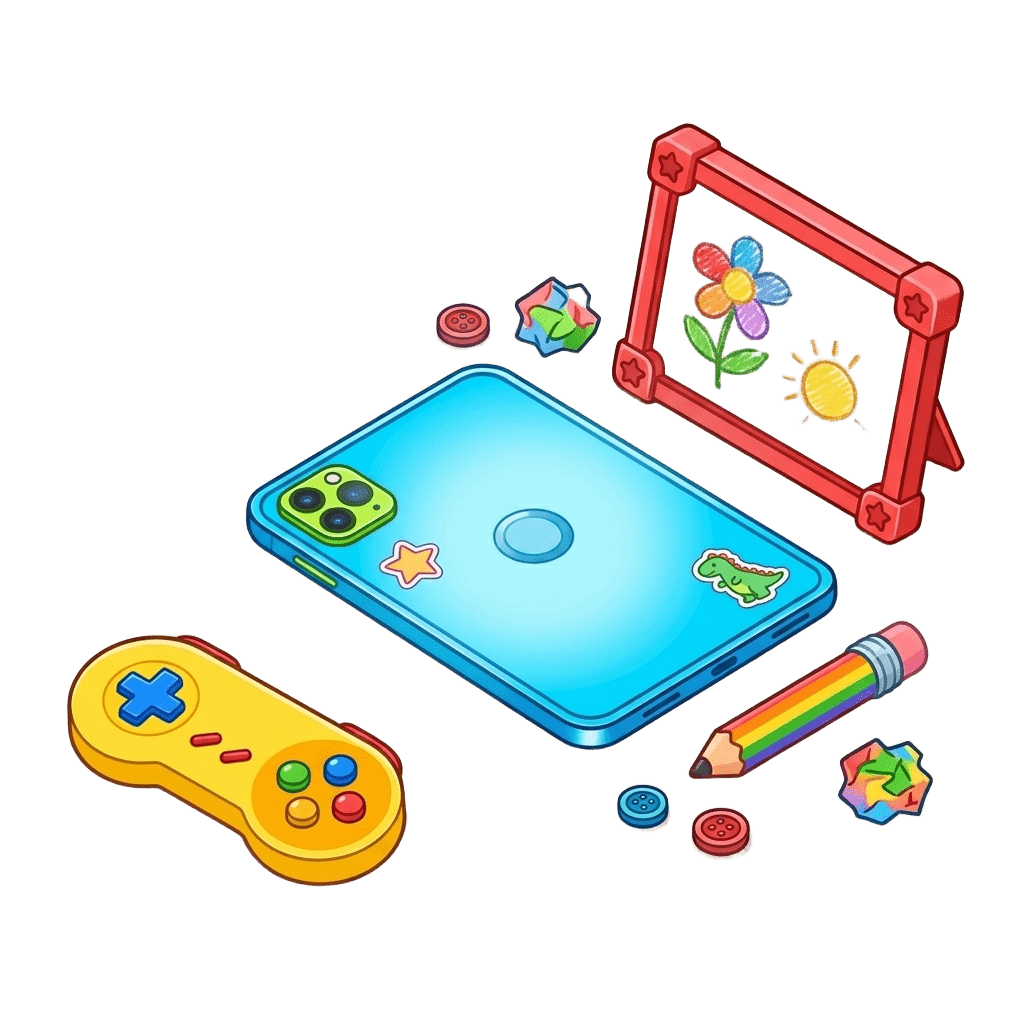
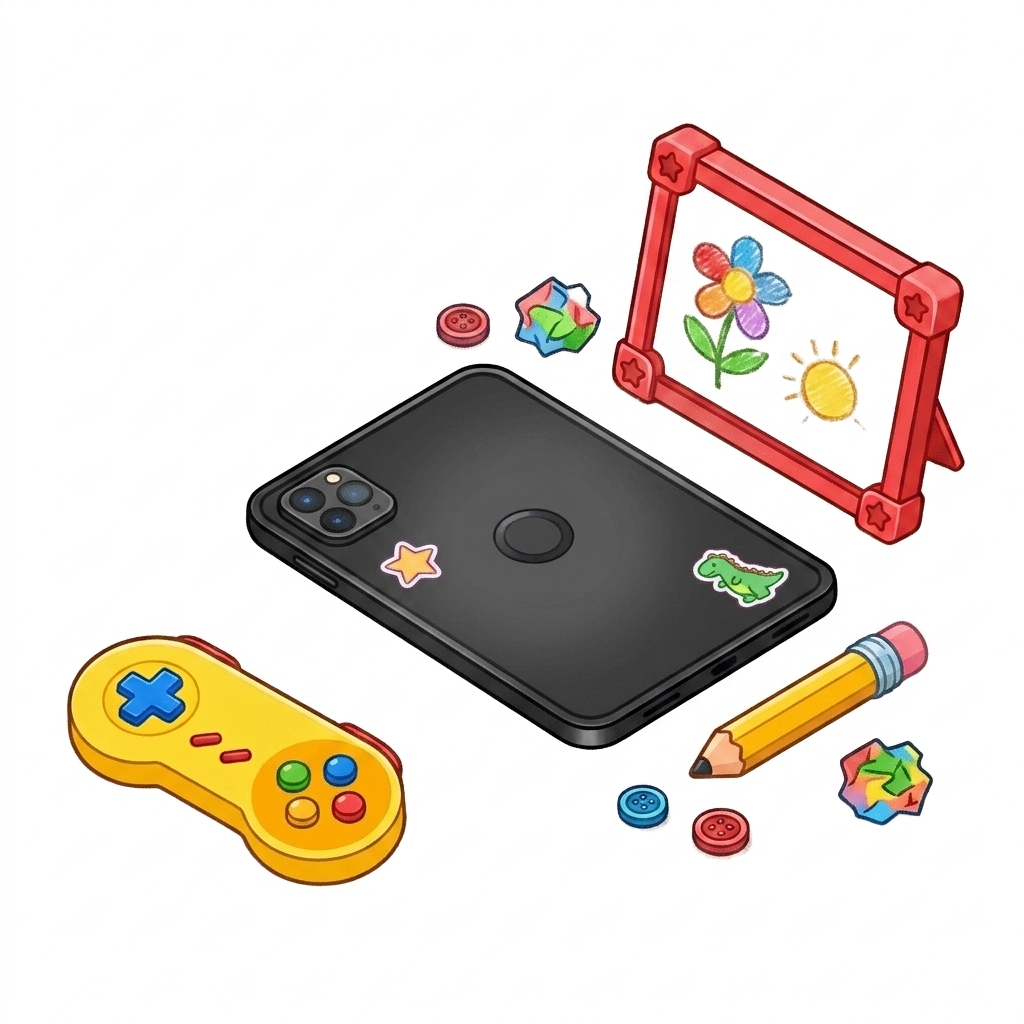
feat: update privacy and terms documents with new dates and company name adjustments

diff --git a/app/pages/index.vue b/app/pages/index.vue
@@ -9,7 +9,7 @@ const localePath = useLocalePath()
 <template>
     <main>
         <SectionHero :title="t('home_page.hero.title')" :description="t('home_page.hero.description')"
-            image="/images/fun-learning.png" image-position="right">
+            image="/images/fun-learning-2.png" image-position="right">
             <template #action>
                 <NuxtLink :to="localePath('/') + '#get-the-app'">
                     <p class="bg-[#0388D3] text-white px-4 py-2 rounded-xl">

diff --git a/app/pages/mission.vue b/app/pages/mission.vue
@@ -8,7 +8,7 @@ const { t } = useI18n()
 <template>
     <main>
         <SectionHero :title="t('mission_page.section_1.title')" :description="t('mission_page.section_1.description')"
-            image="/images/fun-learning.png" image-position="right" />
+            image="/images/mission-for-digital.png" image-position="right" />
 
 
         <SectionHero :title="t('mission_page.section_2.title')" :description="t('mission_page.section_2.description')"

diff --git a/content/km/terms.md b/content/km/terms.md
@@ -1,19 +1,17 @@
 ---
 title: លក្ខខណ្ឌនៃការប្រើប្រាស់
 description: លក្ខខណ្ឌនៃការប្រើប្រាស់កម្មវិធី ឆ្លាតអេប
-date: 01 ឧសភា 2026
-lastmod: 01 ឧសភា 2026
+date: 23 មីនា 2024
+lastmod: 23 មីនា 2024
 ---
 
-លក្ខខណ្ឌនៃការប្រើប្រាស់កម្មវិធី ឆ្លាតអេប នឹងប្រាប់អំពីលក្ខខណ្ឌមួយចំនួនដែលអ្នកប្រើប្រាស់ត្រូវគោរពតាម ដើម្បីធានាឱ្យបាននូវសុវត្ថិភាព និងផលប្រយោជន៍របស់ភាគីទាំងសងខាង គឺក្រុមហ៊ុនរៀនអាន និងអ្នកប្រើប្រាស់។
-
-កម្មវិធីទូរស័ព្ទ ឆ្លាតអេប គឺជាកម្មសិទ្ធរបស់ក្រុមហ៊ុនរៀនអាន។
+លក្ខខណ្ឌនៃការប្រើប្រាស់កម្មវិធី ឆ្លាតអេប នឹងប្រាប់អំពីលក្ខខណ្ឌមួយចំនួនដែលអ្នកប្រើប្រាស់ត្រូវគោរពតាម ដើម្បីធានាឱ្យបាននូវសុវត្ថិភាព និងផលប្រយោជន៍របស់ភាគីទាំងសងខាង គឺឆ្លាតអេប និងអ្នកប្រើប្រាស់។
 
 លក្ខខណ្ឌនៃការប្រើប្រាស់ ត្រូវបានគ្របដណ្ដប់លើការប្រើប្រាស់គ្រប់ទម្រង់ និងគ្រប់ឧបករណ៍។
 
 នៅពេលអ្នកប្រើប្រាស់ចុះឈ្មោះដើម្បីប្រើប្រាស់កម្មវិធី ឆ្លាតអេប អ្នកប្រើប្រាស់ត្រូវ ឬគូសសញ្ញាក្នុងប្រអប់ "យល់ព្រម" ជាមុនសិន។
 
-នៅពេលអ្នកប្រើប្រាស់គូសសញ្ញាយល់ព្រម មានន័យថា អ្នកប្រើប្រាស់យល់ព្រមនឹងលក្ខខណ្ឌនានាដែលបានកំណត់ដោយក្រុមហ៊ុនរៀនអាន។
+នៅពេលអ្នកប្រើប្រាស់គូសសញ្ញាយល់ព្រម មានន័យថា អ្នកប្រើប្រាស់យល់ព្រមនឹងលក្ខខណ្ឌនានាដែលបានកំណត់ដោយឆ្លាតអេប។
 
 សូមអានលក្ខខណ្ឌនីមួយៗ ដោយប្រុងប្រយ័ត្ន នឹងសាកសួរក្រុមហ៊ុន ប្រសិនបើលោកអ្នកមានចម្ងល់ត្រង់ចំណុចណាមួយនៃលក្ខខណ្ឌប្រើប្រាស់។
 
@@ -31,7 +29,7 @@ lastmod: 01 ឧសភា 2026
 
 ## ៤. លក្ខខណ្ឌបង់ប្រាក់ទូទៅ
 
-កម្មវិធី ឆ្លាតអេប អនុញ្ញាតឱ្យអ្នកប្រើប្រាស់ ប្រើសេវាកម្មមួយចំនួនដោយឥតគិតថ្លៃក្រោមការកំណត់លក្ខខណ្ឌ អំពីក្រុមហ៊ុនរៀនអាន។
+កម្មវិធី ឆ្លាតអេប អនុញ្ញាតឱ្យអ្នកប្រើប្រាស់ ប្រើសេវាកម្មមួយចំនួនដោយឥតគិតថ្លៃក្រោមការកំណត់លក្ខខណ្ឌ ពីឆ្លាតអេប។
 
 ដើម្បីចូលប្រើប្រាស់មុខងារផ្សេងទៀត ឬផលិតផលពេញលេញ អ្នកប្រើប្រាស់តម្រូវឱ្យភ្ជាប់ គម្រោងសមាជិកដែលអាចភ្ជាប់ជាគម្រោងប្រចាំខែ ឫជាគម្រោងប្រចាំឆ្នាំ។
 
@@ -41,14 +39,14 @@ lastmod: 01 ឧសភា 2026
 
 ### ៤.១. តម្លៃសេវាកម្ម
 
-ក្រុមហ៊ុនរៀនអានរក្សាសិទ្ធិក្នុងការកំណត់តម្លៃសម្រាប់សេវាកម្មនៃការប្រើប្រាស់កម្មវិធី ឆ្លាតអេប។ បច្ចុប្បន្ន ក្រុមហ៊ុនរៀនអានផ្តល់នូវការភ្ជាប់គម្រោងសមាជិកសម្រាប់អ្នកប្រើប្រាស់ ដែលមានការបែកចែកជា២ប្រភេទដូចខាងក្រោម៖
+ពួកយើងរក្សាសិទ្ធិក្នុងការកំណត់តម្លៃសម្រាប់សេវាកម្មនៃការប្រើប្រាស់កម្មវិធី ឆ្លាតអេប។ បច្ចុប្បន្ន ពួកយើងអានផ្តល់នូវការភ្ជាប់គម្រោងសមាជិកសម្រាប់អ្នកប្រើប្រាស់ ដែលមានការបែកចែកជា២ប្រភេទដូចខាងក្រោម៖
 
 - គម្រោងសមាជិកប្រចាំខែ: **៣ដុល្លារអាមេរិក ($3/month)**
 - គម្រោងសមាជិកប្រចាំឆ្នាំ: **១២ដុល្លារអាមេរិក ($12/year)**
 
 ### ៤.២. ការផ្អាកការប្រើប្រាស់
 
-ក្រុមហ៊ុនរៀនអាននឹងផ្អាក ឬបញ្ចប់ការចូលប្រើសេវាកម្មរបស់អ្នកប្រើប្រាស់ដែលបានភ្ជាប់សមាជិកភាព នៅពេល រយៈពេលនៃគម្រោងត្រូវបានបញ្ចប់ ហើយអ្នកប្រើប្រាស់មិនបានភ្ជាប់គម្រោងបន្ត។ មានន័យថាបន្ទាប់ពីគម្រោងរបស់អ្នកត្រូវបានបញ្ចប់ អ្នកនៅតែអាចបន្តប្រើប្រាស់កម្មវិធី ឆ្លាតអេប បានដដែល ប៉ុន្តែនៅលើកញ្ចប់ឥតគិតថ្លៃ ក្រោមការកំណត់លក្ខខណ្ឌ។ ប្រសិនជាអ្នកចង់បន្តការប្រើប្រាស់សេវាកម្មពេញលេញ អ្នកត្រូវបន្តគម្រោងសមាជិកភាពរបស់អ្នក។
+ពួកយើងនឹងផ្អាក ឬបញ្ចប់ការចូលប្រើសេវាកម្មរបស់អ្នកប្រើប្រាស់ដែលបានភ្ជាប់សមាជិកភាព នៅពេល រយៈពេលនៃគម្រោងត្រូវបានបញ្ចប់ ហើយអ្នកប្រើប្រាស់មិនបានភ្ជាប់គម្រោងបន្ត។ មានន័យថាបន្ទាប់ពីគម្រោងរបស់អ្នកត្រូវបានបញ្ចប់ អ្នកនៅតែអាចបន្តប្រើប្រាស់កម្មវិធី ឆ្លាតអេប បានដដែល ប៉ុន្តែនៅលើកញ្ចប់ឥតគិតថ្លៃ ក្រោមការកំណត់លក្ខខណ្ឌ។ ប្រសិនជាអ្នកចង់បន្តការប្រើប្រាស់សេវាកម្មពេញលេញ អ្នកត្រូវបន្តគម្រោងសមាជិកភាពរបស់អ្នក។
 
 ### ៤.៣. មធ្យោបាយបង់ប្រាក់
 
@@ -64,4 +62,4 @@ lastmod: 01 ឧសភា 2026
 
 ## ៧. ការកែប្រែលក្ខខណ្ឌ
 
-ក្រុមហ៊ុនរៀនអានសូមរក្សាសិទ្ធិតាមការសម្រេចចិត្តតែមួយគត់របស់ខ្លួន ដើម្បីផ្លាស់ប្តូរ កែប្រែ បន្ថែម ឬដកចេញផ្នែកណាមួយនៃលក្ខខណ្ឌទាំងនេះ រួមទាំងគោលការណ៍ឯកជនភាពទាំងមូល ឬផ្នែក ណាមួយនៅពេលណាក៏បាន។ សូមពិនិត្យមើលលក្ខខណ្ឌទាំងនេះជាទៀងទាត់សម្រាប់ការផ្លាស់ប្តូរ។
+ពួកយើងសូមរក្សាសិទ្ធិតាមការសម្រេចចិត្តតែមួយគត់របស់ខ្លួន ដើម្បីផ្លាស់ប្តូរ កែប្រែ បន្ថែម ឬដកចេញផ្នែកណាមួយនៃលក្ខខណ្ឌទាំងនេះ រួមទាំងគោលការណ៍ឯកជនភាពទាំងមូល ឬផ្នែក ណាមួយនៅពេលណាក៏បាន។ សូមពិនិត្យមើលលក្ខខណ្ឌទាំងនេះជាទៀងទាត់សម្រាប់ការផ្លាស់ប្តូរ។

diff --git a/content/km/privacy.md b/content/km/privacy.md
@@ -1,11 +1,11 @@
 ---
 title: គោលការណ៍ឯកជនភាព
 description: គោលការណ៍ឯកជនភាពរបស់កម្មវិធី Chlat App
-date: 01 ឧសភា 2026
-lastmod: 01 ឧសភា 2026
+date: 23 មីនា 2024
+lastmod: 23 មីនា 2024
 ---
 
-គោលការណ៍ឯកជនភាពនេះ ពន្យល់ពីរបៀបដែលយើងខ្ញុំប្រមូល ប្រើប្រាស់ និងការពារព័ត៌មានផ្ទាល់ខ្លួនរបស់អ្នកប្រើប្រាស់ និងអ្នកចូលមើលគេហទំព័ររបស់យើង តាមរយៈការចូលប្រើឬប្រើប្រាស់គេហទំព័រ សេវាកម្ម កម្មវិធី និង/ឬមាតិការបស់ក្រុមហ៊ុនរៀនអាន។
+គោលការណ៍ឯកជនភាពនេះ ពន្យល់ពីរបៀបដែលយើងខ្ញុំប្រមូល ប្រើប្រាស់ និងការពារព័ត៌មានផ្ទាល់ខ្លួនរបស់អ្នកប្រើប្រាស់ និងអ្នកចូលមើលគេហទំព័ររបស់យើង តាមរយៈការចូលប្រើឬប្រើប្រាស់គេហទំព័រ សេវាកម្ម កម្មវិធី និង/ឬមាតិការបស់ឆ្លាតអេប។
 
 ## ១. ព័ត៌មានដែលពួកយើងប្រមូល
 
@@ -31,7 +31,7 @@ lastmod: 01 ឧសភា 2026
 
 យើងមិនអនុញ្ញាតឱ្យកុមារអាយុក្រោម 13 ឆ្នាំបង្កើតគណនីនោះទេ ហើយពួកយើងក៏មិនប្រមូលព័ត៌មានផ្ទាល់ខ្លួនដោយចេតនាពីកុមារអាយុក្រោម 13 ឆ្នាំដោយគ្មានការយល់ព្រម និងតាមការណែនាំពីឪពុកម្តាយនោះឡើយ។
 
-សម្រាប់កុមារដែលមានអាយុក្រោម 13 ឆ្នាំ ដើម្បីប្រើប្រាស់កម្មវិធី Chlat App ឫសេវាកម្មរបស់រៀនអាន ពួកគេត្រូវប្រើប្រាស់គណនីដែលបានបង្កើតឡើងដោយឪពុកម្ដាយ អាណាព្យាបាល ឫមនុស្សពេញវ័យ។
+សម្រាប់កុមារដែលមានអាយុក្រោម 13 ឆ្នាំ ដើម្បីប្រើប្រាស់កម្មវិធី Chlat App ឫសេវាកម្មរបស់ឆ្លាតអេប ពួកគេត្រូវប្រើប្រាស់គណនីដែលបានបង្កើតឡើងដោយឪពុកម្ដាយ អាណាព្យាបាល ឫមនុស្សពេញវ័យ។
 
 ## ៥. របៀបដែលយើងរក្សាទុក និងការពារព័ត៌មានរបស់អ្នក
 
@@ -48,5 +48,3 @@ lastmod: 01 ឧសភា 2026
 ## ៧. ទាក់ទងមកពួកយើង
 
 ប្រសិនបើអ្នកចង់ទាក់ទងមកយើងជាមួយនឹងសំណួរឬមតិកែលម្អ សូមផ្ញើអ៊ីមែលមកយើងតាមរយៈអាស័យដ្ឋាន <contact@chlat.app>។
-
-កម្មវិធី Chlat App ត្រូវបានគ្រប់គ្រង និងដំណើរការដោយក្រុមហ៊ុនរៀនអាន។

diff --git a/content/en/terms.md b/content/en/terms.md
@@ -7,8 +7,6 @@ lastmod: 2026-05-02
 
 The terms and conditions of the Chlat App will outline some of the conditions that users must adhere to to ensure security and the interests of both parties are the learning company and the consumer.
 
-The Chlat App is owned by REAN AAN.
-
 Terms and Conditions cover all uses of all forms and devices.
 
 When a user registers to use Chlat App, the user must first tick the "OK" box.
@@ -39,14 +37,14 @@ All fees are in USD. The payment is non-refundable.
 
 ### 4.1. Service Fee
 
-REAN AAN maintains the right to set the price for the service of using Chlat App. Currently, REAN AAN offers membership plans for users, which are divided into the following two categories:
+We maintains the right to set the price for the service of using Chlat App. Currently, Chlat offers membership plans for users, which are divided into the following two categories:
 
 - Monthly membership plan: **$3 / month**
 - Annual membership plan: **$12 / year**
 
 ### 4.2. Suspension
 
-REAN AAN will suspend or terminate the access to the services of the subscribed users when the term of the plan is completed and the users do not continue to subscribe. This means that after the subscription duration is completed, users can still continue to use Chlat App, but on a free package under certain conditions. If users want to continue using the full service, users need to renew their membership plan.
+We will suspend or terminate the access to the services of the subscribed users when the term of the plan is completed and the users do not continue to subscribe. This means that after the subscription duration is completed, users can still continue to use Chlat App, but on a free package under certain conditions. If users want to continue using the full service, users need to renew their membership plan.
 
 ### 4.3. Payment Method
 
@@ -62,4 +60,4 @@ Please read the Chlat App Privacy Policy carefully for information regarding the
 
 ## 7. Modification of Conditions
 
-REAN AAN reserves the right at its sole discretion to change, modify, add or remove any of these terms, including the entire Privacy Policy, or any part at any time. Check these terms regularly for changes.
+We reserves the right at its sole discretion to change, modify, add or remove any of these terms, including the entire Privacy Policy, or any part at any time. Check these terms regularly for changes.

diff --git a/content/en/privacy.md b/content/en/privacy.md
@@ -1,11 +1,11 @@
 ---
 title: Privacy Policy
 description: Privacy policy for the Chlat App
-date: 2026-05-02
-lastmod: 2026-05-02
+date: 23 March 2024
+lastmod: 23 March 2024
 ---
 
-This Privacy Policy describes how we collect, use and protect the personal information of our users and visitors to our website through accessing or using the Website, Services, Apps and/or Content of REAN AAN.
+This Privacy Policy describes how we collect, use and protect the personal information of our users and visitors to our website through accessing or using the Website, Services, Apps and/or Content of Chlat App.
 
 ## 1. Information We Collect
 
@@ -46,5 +46,3 @@ Your use of the Services after these changes means that you accept the revised P
 ## 7. Contact Us
 
 If you would like to contact us with any questions or suggestions, please email us at <contact@chlat.app>.
-
-Chlat App is managed and operated by REAN AAN.
